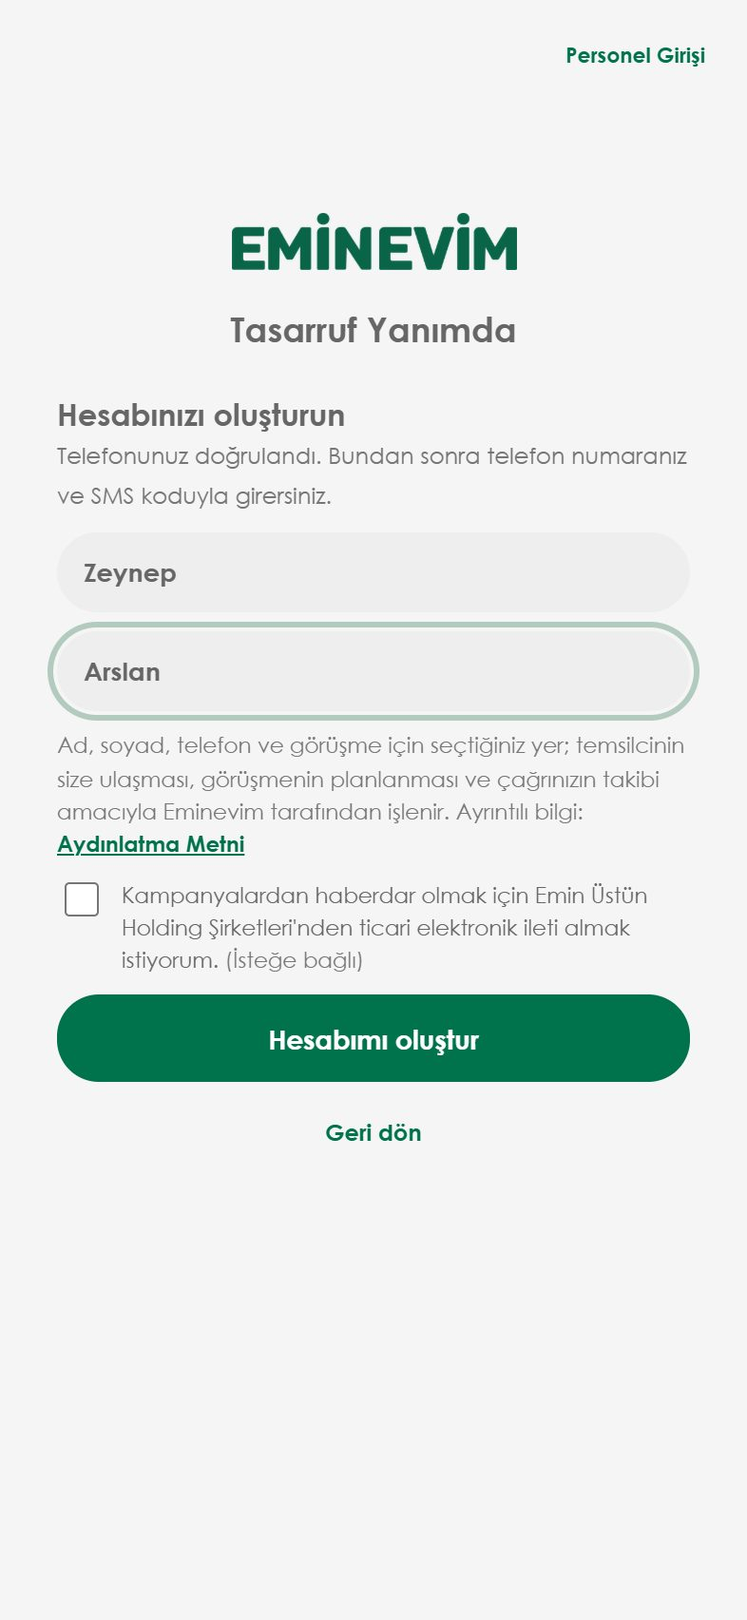
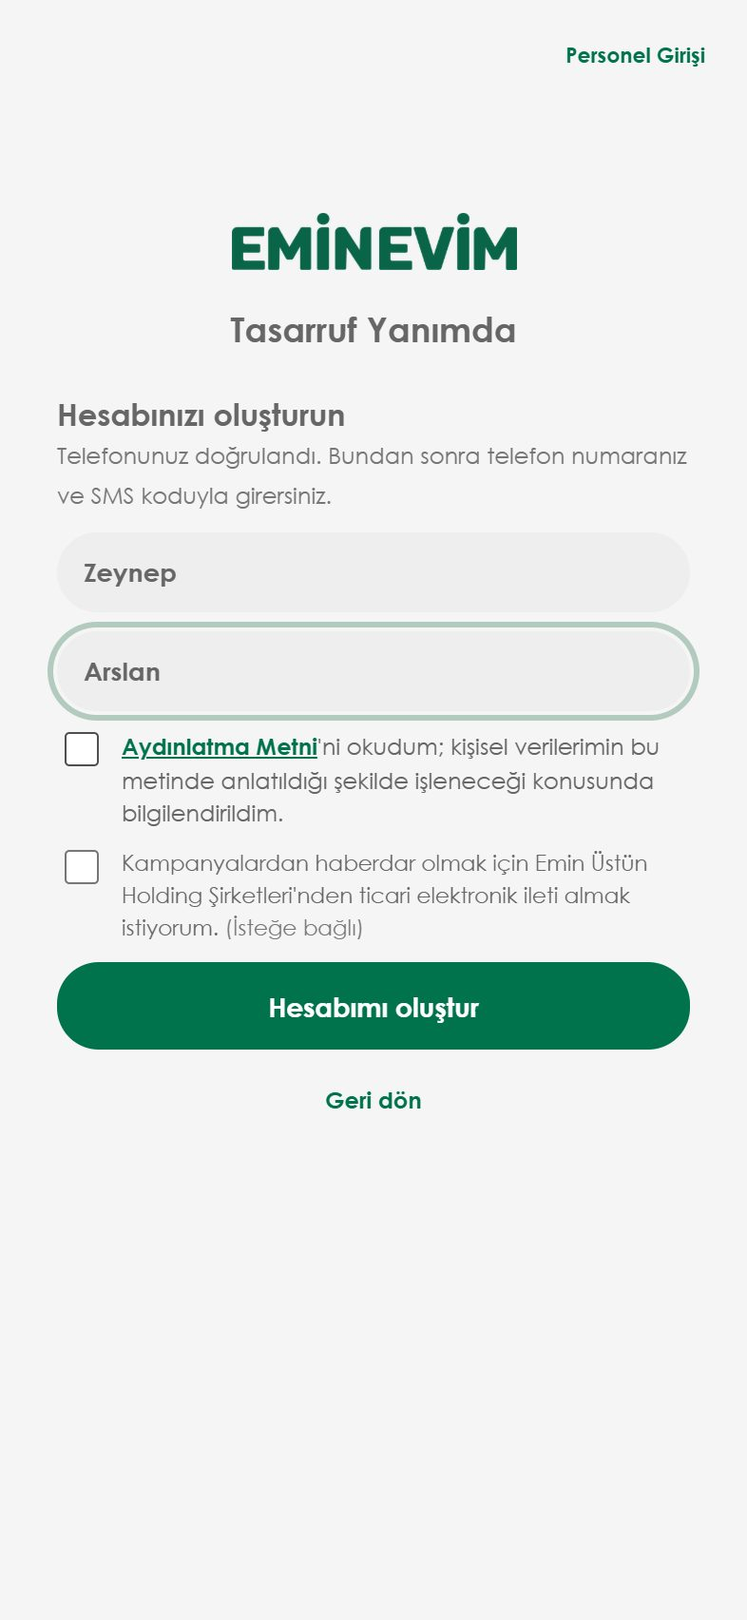
KVKK: zorunlu 'Aydınlatma Metni'ni okudum, bilgilendirildim' onay kutusu (web formu + uygulama + merkez)

Changed region(s): [[0.0611, 0.4354, 0.9466, 0.7154]]

diff --git a/Eminevim Saha Paneli.dc.html b/Eminevim Saha Paneli.dc.html
@@ -592,7 +592,7 @@ html{-webkit-tap-highlight-color:transparent}
           <sc-if value="{{ kodAdim1 }}"><input value="{{ kodTel }}" onChange="{{ setKodTel }}" inputmode="tel" autocomplete="tel" placeholder="Telefon numaranız" aria-label="Telefon numaranız" style="width:100%; padding:13px 14px; border-radius:22px; border:0; font-size:13.5px; font-family:GOTHIC,'Century Gothic','Segoe UI',Arial,sans-serif; background:var(--kutu); color:var(--ink);font-weight:700"></sc-if>
           <sc-if value="{{ kodAdim1 }}"><select class="spy-ara ornek-secim" value="{{ ornekSecili }}" onChange="{{ setOrnekSecili }}" aria-label="Örnek müşteri seçin">{{ ornekSecenekler }}</select></sc-if>
           <sc-if value="{{ kodAdim2 }}"><input value="{{ kodGirdi }}" onChange="{{ setKodGirdi }}" inputmode="numeric" autocomplete="one-time-code" maxlength="6" placeholder="• • • • • •" aria-label="SMS ile gelen 6 haneli kod" style="width:100%; padding:13px 14px; border-radius:22px; border:0; font-size:13.5px; font-family:GOTHIC,'Century Gothic','Segoe UI',Arial,sans-serif; background:var(--kutu); color:var(--ink);font-weight:700;text-align:center;font-size:22px;letter-spacing:10px;"><sc-if value="{{ kodDemoVar }}"><div style="font-size:11.5px;color:var(--dim);background:var(--tintGreen);border-radius:12px;padding:7px 10px;text-align:left;">Test: SMS gönderilmez, kod otomatik dolduruldu (<b style="color:#00724C;letter-spacing:2px;">{{ kodDemo }}</b>).</div></sc-if></sc-if>
-          <sc-if value="{{ kodAdim3 }}"><input value="{{ kodAd }}" onChange="{{ setKodAd }}" autocomplete="given-name" placeholder="Ad" aria-label="Ad" style="width:100%; padding:13px 14px; border-radius:22px; border:0; font-size:13.5px; font-family:GOTHIC,'Century Gothic','Segoe UI',Arial,sans-serif; background:var(--kutu); color:var(--ink);font-weight:700"><input value="{{ kodSoyad }}" onChange="{{ setKodSoyad }}" autocomplete="family-name" placeholder="Soyad" aria-label="Soyad" style="width:100%; padding:13px 14px; border-radius:22px; border:0; font-size:13.5px; font-family:GOTHIC,'Century Gothic','Segoe UI',Arial,sans-serif; background:var(--kutu); color:var(--ink);font-weight:700"><div style="font-size:11.5px;color:var(--dim);line-height:1.5;text-align:left;">Ad, soyad, telefon ve görüşme için seçtiğiniz yer; temsilcinin size ulaşması, görüşmenin planlanması ve çağrınızın takibi amacıyla Eminevim tarafından işlenir. Ayrıntılı bilgi: <button type="button" onClick="{{ aydinlatmaAc }}" style="border:0;background:transparent;padding:0;color:#00724C;font:700 11.5px GOTHIC,'Century Gothic','Segoe UI',Arial,sans-serif;text-decoration:underline;cursor:pointer;">Aydınlatma Metni</button></div><label style="display:flex;align-items:flex-start;gap:9px;text-align:left;cursor:pointer;"><input type="checkbox" checked="{{ kodKampanya }}" onChange="{{ toggleKodKampanya }}" aria-label="Ticari elektronik ileti izni (isteğe bağlı)" style="width:18px;height:18px;accent-color:#00724C;flex-shrink:0;margin-top:1px;"><span style="font-size:11.5px;color:var(--ink);line-height:1.45;">Kampanyalardan haberdar olmak için Emin Üstün Holding Şirketleri'nden ticari elektronik ileti almak istiyorum. <span style="color:var(--dim);">(İsteğe bağlı)</span></span></label></sc-if>
+          <sc-if value="{{ kodAdim3 }}"><input value="{{ kodAd }}" onChange="{{ setKodAd }}" autocomplete="given-name" placeholder="Ad" aria-label="Ad" style="width:100%; padding:13px 14px; border-radius:22px; border:0; font-size:13.5px; font-family:GOTHIC,'Century Gothic','Segoe UI',Arial,sans-serif; background:var(--kutu); color:var(--ink);font-weight:700"><input value="{{ kodSoyad }}" onChange="{{ setKodSoyad }}" autocomplete="family-name" placeholder="Soyad" aria-label="Soyad" style="width:100%; padding:13px 14px; border-radius:22px; border:0; font-size:13.5px; font-family:GOTHIC,'Century Gothic','Segoe UI',Arial,sans-serif; background:var(--kutu); color:var(--ink);font-weight:700"><label style="display:flex;align-items:flex-start;gap:9px;text-align:left;cursor:pointer;"><input type="checkbox" checked="{{ kodAydinlatma }}" onChange="{{ toggleKodAydinlatma }}" aria-label="Aydınlatma Metni'ni okudum, bilgilendirildim" style="width:18px;height:18px;accent-color:#00724C;flex:0 0 auto;margin-top:1px;"><span style="font-size:12px;color:var(--ink);line-height:1.45;"><button type="button" onClick="{{ aydinlatmaAcKutu }}" style="border:0;background:transparent;padding:0;color:#00724C;font:700 12px GOTHIC,'Century Gothic','Segoe UI',Arial,sans-serif;text-decoration:underline;cursor:pointer;">Aydınlatma Metni</button>'ni okudum; kişisel verilerimin bu metinde anlatıldığı şekilde işleneceği konusunda bilgilendirildim.</span></label><label style="display:flex;align-items:flex-start;gap:9px;text-align:left;cursor:pointer;"><input type="checkbox" checked="{{ kodKampanya }}" onChange="{{ toggleKodKampanya }}" aria-label="Ticari elektronik ileti izni (isteğe bağlı)" style="width:18px;height:18px;accent-color:#00724C;flex-shrink:0;margin-top:1px;"><span style="font-size:11.5px;color:var(--ink);line-height:1.45;">Kampanyalardan haberdar olmak için Emin Üstün Holding Şirketleri'nden ticari elektronik ileti almak istiyorum. <span style="color:var(--dim);">(İsteğe bağlı)</span></span></label></sc-if>
           <sc-if value="{{ kodOrnekVar }}"><div style="font-size:11.5px;color:var(--dim);background:var(--tintGreen);border-radius:12px;padding:7px 10px;text-align:left;">Test: ad ve soyad örnek olarak dolduruldu. İsterseniz değiştirin.</div></sc-if>
           <sc-if value="{{ kodHataVar }}"><div role="alert" style="font-size:12px;font-weight:700;color:#B25E30;text-align:left;">{{ kodHata }}</div></sc-if>
           <button onClick="{{ kodIleri }}" style-active="transform:scale(.97);" style="width:100%; min-height:46px; background:#00724C; color:#fff; border:none; border-radius:22px; font-size:14px; font-weight:700; cursor:pointer; font-family:GOTHIC,'Century Gothic','Segoe UI',Arial,sans-serif;">{{ kodDugme }}</button>
@@ -2418,7 +2418,7 @@ class Component extends DCLogic {
       this.setState({ customerNav: "basvurum", mSeciliRandevuId: rid, mKonusmaAcik: false });
     } else this._acilacak = rid;
   }
-  girisTemel() { return { girisMod: "", kodAdim: 1, kodHata: "", kodGirdi: "", kodAd: "", kodSoyad: "", kodKampanya: false, kodOrnek: false, kodWeb: "", kodKayit: null }; }
+  girisTemel() { return { girisMod: "", kodAdim: 1, kodHata: "", kodGirdi: "", kodAd: "", kodSoyad: "", kodKampanya: false, kodAydinlatma: false, kodOrnek: false, kodWeb: "", kodKayit: null }; }
   async kodIleri() {
     // Müşteri girişi (2026-11-18): telefon → SMS kodu → kayıtlıysa içeri; yeni müşteriyse Ad, Soyad + aydınlatma bilgisi
     // (+ isteğe bağlı ticari ileti izni). Parola yok; oturum "Çıkış yap"a kadar telefonda kalır.
@@ -2482,10 +2482,11 @@ class Component extends DCLogic {
     const { adi, soyadi } = s.kodWeb ? this.webAdSoyad(q) : { adi: (s.kodAd || "").trim(), soyadi: (s.kodSoyad || "").trim() };
     if (!s.kodWeb && adi.length < 2) { this.setState({ kodHata: "Adınızı yazın." }); return; }
     if (!s.kodWeb && soyadi.length < 2) { this.setState({ kodHata: "Soyadınızı yazın." }); return; }
+    if (!s.kodWeb && !s.kodAydinlatma) { this.setState({ kodHata: "Devam etmek için Aydınlatma Metni'ni okuduğunuzu onaylayın." }); return; }  // web'den gelen formda onayladı
     const kampanya = s.kodWeb ? q.get("kampanya") === "1" : !!s.kodKampanya;
     let merkezHesap = null;
     if (CANLI) {
-      try { merkezHesap = await musteriMerkez("kayit", { tel, kod: String(s.kodGirdi || "").replace(/\D/g, ""), adi, soyadi, kampanya, aydinlatma: true }); }
+      try { merkezHesap = await musteriMerkez("kayit", { tel, kod: String(s.kodGirdi || "").replace(/\D/g, ""), adi, soyadi, kampanya, aydinlatmaOnay: true }); }
       catch (e) { this.setState({ kodHata: e.message }); return; }
       if (this.state.girisMod !== "kod" || this.state.kodTel !== s.kodTel || this.state.kodWeb !== s.kodWeb) return;
     }
@@ -3738,10 +3739,12 @@ class Component extends DCLogic {
       ornekSecili: ornekMu(telAnahtar(s.kodTel)) ? telAnahtar(s.kodTel) : (s.yeniOrnekTel && telAnahtar(s.kodTel) === s.yeniOrnekTel ? "yeni" : ""),
       setOrnekSecili: (e) => { const v = e.target.value; if (v === "yeni") { const t = rastgeleUye().tel; this.setState({ kodTel: t, yeniOrnekTel: telAnahtar(t), kodHata: "" }); } else if (v) this.setState({ kodTel: telYaz(v), yeniOrnekTel: "", kodHata: "" }); },
       ornekSecenekler: [React.createElement("option", { key: "", value: "" }, "Örnek müşteri seçin")].concat(ORNEK_MUSTERILER.map((m) => React.createElement("option", { key: m.tel, value: m.tel }, m.ad + " · kayıtlı müşteri")), [React.createElement("option", { key: "yeni", value: "yeni" }, "Yeni üye (örnek bilgilerle)")]),
-      kodTel: s.kodTel || "", kodGirdi: s.kodGirdi || "", kodAd: s.kodAd || "", kodSoyad: s.kodSoyad || "", kodKampanya: !!s.kodKampanya, kodOrnekVar: s.girisMod === "kod" && s.kodAdim === 3 && !!s.kodOrnek,
+      kodTel: s.kodTel || "", kodGirdi: s.kodGirdi || "", kodAd: s.kodAd || "", kodSoyad: s.kodSoyad || "", kodKampanya: !!s.kodKampanya, kodAydinlatma: !!s.kodAydinlatma, kodOrnekVar: s.girisMod === "kod" && s.kodAdim === 3 && !!s.kodOrnek,
       setKodTel: (e) => this.setState({ kodTel: e.target.value, kodHata: "" }), setKodGirdi: (e) => this.setState({ kodGirdi: e.target.value.replace(/\D/g, "").slice(0, 6), kodHata: "" }),
       setKodAd: (e) => this.setState({ kodAd: e.target.value, kodHata: "", kodOrnek: false }), setKodSoyad: (e) => this.setState({ kodSoyad: e.target.value, kodHata: "", kodOrnek: false }),
       toggleKodKampanya: () => this.setState((st) => ({ kodKampanya: !st.kodKampanya })),
+      toggleKodAydinlatma: () => this.setState((st) => ({ kodAydinlatma: !st.kodAydinlatma, kodHata: "" })),
+      aydinlatmaAcKutu: (e) => { e.preventDefault(); this.setState({ aydinlatmaAcik: true }); },  // kutunun içindeki bağlantı: işaretlemez, metni açar
       aydinlatmaAcik: !!s.aydinlatmaAcik, aydinlatmaAc: () => this.setState({ aydinlatmaAcik: true }), kampanyaIzniVar: !!s.kampanyaIzni, kampanyaIzniDegistir: () => this.kampanyaIzniDegistir(), aydinlatmaKapat: () => this.setState({ aydinlatmaAcik: false }),
       kodHata: s.kodHata || "", kodHataVar: !!s.kodHata,
       kodDemo: (smsKodOku(s.kodTel) || {}).kod || "", kodDemoVar: s.kodAdim === 2 && !!smsKodOku(s.kodTel),

diff --git a/web-basvuru/index.html b/web-basvuru/index.html
@@ -268,6 +268,8 @@
   .ty-mobil .ty-bolge-disi{font-size:10pt}
   .ty-aydinlatma{margin:0;padding:0 2px;font-size:8pt;line-height:1.4;color:#666;text-align:left}
   .ty-mobil .ty-aydinlatma{font-size:9.5pt}
+  .ty-onay .ty-ayd-link{border:0;background:none;padding:0;color:var(--tkd_yesil);font:inherit;font-weight:700;text-decoration:underline;cursor:pointer}
+  .ty-onay input.ty-eksik + .tk-checkmark{box-shadow:0 0 0 2px var(--tdk_turuncu)}
   .ty-aydinlatma button{border:0;background:none;padding:0;color:var(--tkd_yesil);font:inherit;font-weight:700;text-decoration:underline;cursor:pointer}
   .ty-konum-not{margin:6px 0 0;padding:0 6px;font-size:8pt;line-height:1.4;color:#666}
   .ty-mobil .ty-konum-not{font-size:9.5pt}
@@ -840,14 +842,18 @@
     <div class="col-9 pb-3 px-0"><input type="text" name="telefon" placeholder="Telefon" class="tk-inputGri" inputmode="tel" autocomplete="tel-national" aria-label="Telefon"></div>
 
     <div class="col-12">
+      <label class="tk-checkboxContainer ty-onay">
+        <span class="tk-inputGriLabel"><button type="button" class="ty-ayd-link" data-aydinlatma-ac>Aydınlatma Metni</button>'ni okudum; kişisel verilerimin bu metinde anlatıldığı şekilde işleneceği konusunda bilgilendirildim.</span>
+        <input type="checkbox" name="aydinlatmaOnay" aria-label="Aydınlatma Metni'ni okudum, bilgilendirildim">
+        <span class="tk-checkmark"></span>
+      </label>
+    </div>
+    <div class="col-12 pb-3">
       <label class="tk-checkboxContainer">
         <span class="tk-inputGriLabel">Kampanyalardan haberdar olmak için Emin Üstün Holding Şirketleri'nden ticari elektronik ileti almak istiyorum. (İsteğe bağlı)</span>
         <input type="checkbox" name="kampanya">
         <span class="tk-checkmark"></span>
       </label>
-    </div>
-    <div class="col-12 pb-3">
-      <p class="ty-aydinlatma">Kişisel verileriniz, başvurunuzun değerlendirilmesi ve sizinle iletişim kurulması amacıyla Eminevim tarafından işlenir. Ayrıntılı bilgi: <button type="button" data-aydinlatma-ac>Aydınlatma Metni</button></p>
     </div>
 
     <div class="col-12 pb-2 px-0" data-plan-satir hidden>
@@ -905,14 +911,18 @@
     <div class="col-9 pb-3 px-0"><input type="text" name="telefon" placeholder="Telefon" class="tk-inputMobilGri" inputmode="tel" autocomplete="tel-national" aria-label="Telefon"></div>
 
     <div class="col-12">
+      <label class="tk-checkboxContainer ty-onay">
+        <span class="tk-inputGriLabelMobil"><button type="button" class="ty-ayd-link" data-aydinlatma-ac>Aydınlatma Metni</button>'ni okudum; kişisel verilerimin bu metinde anlatıldığı şekilde işleneceği konusunda bilgilendirildim.</span>
+        <input type="checkbox" name="aydinlatmaOnay" aria-label="Aydınlatma Metni'ni okudum, bilgilendirildim">
+        <span class="tk-checkmark"></span>
+      </label>
+    </div>
+    <div class="col-12 pb-3">
       <label class="tk-checkboxContainer">
         <span class="tk-inputGriLabelMobil">Kampanyalardan haberdar olmak için Emin Üstün Holding Şirketleri'nden ticari elektronik ileti almak istiyorum. (İsteğe bağlı)</span>
         <input type="checkbox" name="kampanya">
         <span class="tk-checkmark"></span>
       </label>
-    </div>
-    <div class="col-12 pb-3">
-      <p class="ty-aydinlatma">Kişisel verileriniz, başvurunuzun değerlendirilmesi ve sizinle iletişim kurulması amacıyla Eminevim tarafından işlenir. Ayrıntılı bilgi: <button type="button" data-aydinlatma-ac>Aydınlatma Metni</button></p>
     </div>
 
     <div class="col-12 pb-2 px-0" data-plan-satir hidden>
@@ -2501,7 +2511,7 @@ _utmx</strong></strong></p>
       if(anahtar.checked){ bolgeDisi=false; disNot.hidden=true; pencereAc(); }
       else { talep=null; konum=null; formGoster(); }
     });
-    form.querySelector('[data-aydinlatma-ac]').addEventListener('click', function(e){ aydinlatmaAc(e.currentTarget); });
+    form.querySelector('[data-aydinlatma-ac]').addEventListener('click', function(e){ e.preventDefault(); aydinlatmaAc(e.currentTarget); });  // kutuyu işaretlemez, metni açar
     ozetBtn.addEventListener('click', pencereAc);
 
     /* --- Pencere: 1 harita → 2 gün ve saat --- */
@@ -2732,6 +2742,7 @@ _utmx</strong></strong></p>
       if(!v.ad) eksik.push([f.ad,'Adınızı yazın.']);
       if(!v.soyad) eksik.push([f.soyad,'Soyadınızı yazın.']);
       if(v.tel.length!==10) eksik.push([f.telefon,'Telefonu 10 hane yazın.']);
+      if(!f.aydinlatmaOnay.checked) eksik.push([f.aydinlatmaOnay,"Devam etmek için Aydınlatma Metni'ni okuduğunuzu onaylayın."]);
       if(eksik.length){
         eksik.forEach(function(x){ isaretle(x[0], x[1]); });
         var ilk=eksik[0][0], odak=ilk.matches('input') ? ilk : ilk.querySelector('input');
@@ -2778,7 +2789,7 @@ _utmx</strong></strong></p>
       sonuc.innerHTML = h; form.hidden = true; sonuc.hidden = false;
       if(secim && canli){
         var d=talep.gun, iki=function(n){return (n<10?'0':'')+n;};
-        window.Canli.gonder('api/cagri', { kaynak:'web', aydinlatma:true, kampanya:f.kampanya.checked, musteri:{ ad:v.ad+' '+v.soyad, adi:v.ad, soyadi:v.soyad, tel:t10 },
+        window.Canli.gonder('api/cagri', { kaynak:'web', aydinlatmaOnay:f.aydinlatmaOnay.checked, kampanya:f.kampanya.checked, musteri:{ ad:v.ad+' '+v.soyad, adi:v.ad, soyadi:v.soyad, tel:t10 },
           kayit:{ id:requestId, tip:'ziyaret', durum:'alindi', kaynak:'web', tarih:d.getFullYear()+'-'+iki(d.getMonth()+1)+'-'+iki(d.getDate()), gunYazi:v.gun, saat:v.saat, yer:v.adres,
             konum:{ lat:talep.lat, lng:talep.lng, adres:talep.adres, bolge:talep.bolge } } })
           .then(function(c){ var k=(c.sonuc||{}).girisKodu||''; var el=sonuc.querySelector('[data-sms-kod]'); if(el) el.textContent=k;

diff --git a/web-basvuru/form_bolumu.html b/web-basvuru/form_bolumu.html
@@ -136,6 +136,8 @@
   .ty-mobil .ty-bolge-disi{font-size:10pt}
   .ty-aydinlatma{margin:0;padding:0 2px;font-size:8pt;line-height:1.4;color:#666;text-align:left}
   .ty-mobil .ty-aydinlatma{font-size:9.5pt}
+  .ty-onay .ty-ayd-link{border:0;background:none;padding:0;color:var(--tkd_yesil);font:inherit;font-weight:700;text-decoration:underline;cursor:pointer}
+  .ty-onay input.ty-eksik + .tk-checkmark{box-shadow:0 0 0 2px var(--tdk_turuncu)}
   .ty-aydinlatma button{border:0;background:none;padding:0;color:var(--tkd_yesil);font:inherit;font-weight:700;text-decoration:underline;cursor:pointer}
   .ty-konum-not{margin:6px 0 0;padding:0 6px;font-size:8pt;line-height:1.4;color:#666}
   .ty-mobil .ty-konum-not{font-size:9.5pt}
@@ -317,14 +319,18 @@
     <div class="col-9 pb-3 px-0"><input type="text" name="telefon" placeholder="Telefon" class="tk-inputGri" inputmode="tel" autocomplete="tel-national" aria-label="Telefon"></div>
 
     <div class="col-12">
+      <label class="tk-checkboxContainer ty-onay">
+        <span class="tk-inputGriLabel"><button type="button" class="ty-ayd-link" data-aydinlatma-ac>Aydınlatma Metni</button>'ni okudum; kişisel verilerimin bu metinde anlatıldığı şekilde işleneceği konusunda bilgilendirildim.</span>
+        <input type="checkbox" name="aydinlatmaOnay" aria-label="Aydınlatma Metni'ni okudum, bilgilendirildim">
+        <span class="tk-checkmark"></span>
+      </label>
+    </div>
+    <div class="col-12 pb-3">
       <label class="tk-checkboxContainer">
         <span class="tk-inputGriLabel">Kampanyalardan haberdar olmak için Emin Üstün Holding Şirketleri'nden ticari elektronik ileti almak istiyorum. (İsteğe bağlı)</span>
         <input type="checkbox" name="kampanya">
         <span class="tk-checkmark"></span>
       </label>
-    </div>
-    <div class="col-12 pb-3">
-      <p class="ty-aydinlatma">Kişisel verileriniz, başvurunuzun değerlendirilmesi ve sizinle iletişim kurulması amacıyla Eminevim tarafından işlenir. Ayrıntılı bilgi: <button type="button" data-aydinlatma-ac>Aydınlatma Metni</button></p>
     </div>
 
     <div class="col-12 pb-2 px-0" data-plan-satir hidden>
@@ -524,7 +530,7 @@
       if(anahtar.checked){ bolgeDisi=false; disNot.hidden=true; pencereAc(); }
       else { talep=null; konum=null; formGoster(); }
     });
-    form.querySelector('[data-aydinlatma-ac]').addEventListener('click', function(e){ aydinlatmaAc(e.currentTarget); });
+    form.querySelector('[data-aydinlatma-ac]').addEventListener('click', function(e){ e.preventDefault(); aydinlatmaAc(e.currentTarget); });  // kutuyu işaretlemez, metni açar
     ozetBtn.addEventListener('click', pencereAc);
 
     /* --- Pencere: 1 harita → 2 gün ve saat --- */
@@ -755,6 +761,7 @@
       if(!v.ad) eksik.push([f.ad,'Adınızı yazın.']);
       if(!v.soyad) eksik.push([f.soyad,'Soyadınızı yazın.']);
       if(v.tel.length!==10) eksik.push([f.telefon,'Telefonu 10 hane yazın.']);
+      if(!f.aydinlatmaOnay.checked) eksik.push([f.aydinlatmaOnay,"Devam etmek için Aydınlatma Metni'ni okuduğunuzu onaylayın."]);
       if(eksik.length){
         eksik.forEach(function(x){ isaretle(x[0], x[1]); });
         var ilk=eksik[0][0], odak=ilk.matches('input') ? ilk : ilk.querySelector('input');
@@ -801,7 +808,7 @@
       sonuc.innerHTML = h; form.hidden = true; sonuc.hidden = false;
       if(secim && canli){
         var d=talep.gun, iki=function(n){return (n<10?'0':'')+n;};
-        window.Canli.gonder('api/cagri', { kaynak:'web', aydinlatma:true, kampanya:f.kampanya.checked, musteri:{ ad:v.ad+' '+v.soyad, adi:v.ad, soyadi:v.soyad, tel:t10 },
+        window.Canli.gonder('api/cagri', { kaynak:'web', aydinlatmaOnay:f.aydinlatmaOnay.checked, kampanya:f.kampanya.checked, musteri:{ ad:v.ad+' '+v.soyad, adi:v.ad, soyadi:v.soyad, tel:t10 },
           kayit:{ id:requestId, tip:'ziyaret', durum:'alindi', kaynak:'web', tarih:d.getFullYear()+'-'+iki(d.getMonth()+1)+'-'+iki(d.getDate()), gunYazi:v.gun, saat:v.saat, yer:v.adres,
             konum:{ lat:talep.lat, lng:talep.lng, adres:talep.adres, bolge:talep.bolge } } })
           .then(function(c){ var k=(c.sonuc||{}).girisKodu||''; var el=sonuc.querySelector('[data-sms-kod]'); if(el) el.textContent=k;

diff --git a/senaryo/adimlar.js b/senaryo/adimlar.js
@@ -1,5 +1,5 @@
 // araclar/senaryo_goruntu.py üretir; elle düzenlenmez
-window.SENARYO_SURUM = "202611181528";
+window.SENARYO_SURUM = "202611181558";
 window.SENARYO = {
  "web": [
   {
@@ -13,8 +13,8 @@ window.SENARYO = {
   },
   {
    "kim": "m",
-   "baslik": "KVKK: Aydınlatma Metni",
-   "metin": "Formun altında kısa bilgi ve \"Aydınlatma Metni\" bağlantısı var; onay kutusu yok. Kampanya iletisi izni isteğe bağlıdır, işaretsiz gelir.",
+   "baslik": "KVKK: Aydınlatma Metni ve onay",
+   "metin": "Müşteri \"Aydınlatma Metni\"ni açıp okur, \"okudum, bilgilendirildim\" kutusunu işaretler; işaretlemeden form gönderilmez. Kampanya iletisi izni ayrı, isteğe bağlı, işaretsiz gelir.",
    "m": "s1-03-m.jpg",
    "p": "s1-01-p.jpg",
    "ust": "#0d2b29",
@@ -177,8 +177,8 @@ window.SENARYO = {
   },
   {
    "kim": "m",
-   "baslik": "KVKK: Aydınlatma Metni",
-   "metin": "\"Aydınlatma Metni\"ne dokununca metnin tamamı açılır. Kampanya iletisi izni isteğe bağlıdır, işaretsiz gelir.",
+   "baslik": "KVKK: Aydınlatma Metni ve onay",
+   "metin": "\"Aydınlatma Metni\"ne dokununca metnin tamamı açılır; müşteri \"okudum, bilgilendirildim\" kutusunu işaretlemeden hesap açılmaz. Kampanya iletisi izni ayrı, isteğe bağlı, işaretsiz gelir.",
    "m": "s2-05-m.jpg",
    "p": "s2-01-p.jpg",
    "ust": "#858a90",

diff --git a/panel.html b/panel.html
@@ -216,7 +216,7 @@
   </main>
 </div>
 
-<script src="senaryo/adimlar.js?v=202611181528"></script>
+<script src="senaryo/adimlar.js?v=202611181558"></script>
 <script>
 (function(){
   var bolumler = ["cerceve","video","senaryo-1","senaryo-2"];

diff --git a/araclar/senaryo_goruntu.py b/araclar/senaryo_goruntu.py
@@ -137,15 +137,16 @@ def senaryo_web(browser, hatalar):
     s.goruntu(web, "m", TELEFON)
     s.adim("m", "Müşteri web formunu doldurur", "Eminevim sitesindeki başvuru formu: ad, soyad, telefon. E-posta istenmez.")
 
-    # KVKK: aydınlatma yalnız gösterilir (onay kutusu yok); ticari ileti izni isteğe bağlı, işaretsiz gelir
+    # KVKK: zorunlu "Aydınlatma Metni'ni okudum" kutusu (açık rıza değil); ticari ileti izni ayrı, isteğe bağlı, işaretsiz gelir
     assert not form.locator("[name=kampanya]").is_checked()
-    form.get_by_role("button", name="Aydınlatma Metni", exact=True).click()
+    form.locator("[data-aydinlatma-ac]").click()
     ayd = web.locator("#ty-aydinlatma.acik")
     ayd.get_by_role("button", name="Kapat", exact=True).wait_for()
     s.goruntu(web, "m", TELEFON)
-    s.adim("m", "KVKK: Aydınlatma Metni", "Formun altında kısa bilgi ve \"Aydınlatma Metni\" bağlantısı var; onay kutusu yok. "
-           "Kampanya iletisi izni isteğe bağlıdır, işaretsiz gelir.")
+    s.adim("m", "KVKK: Aydınlatma Metni ve onay", "Müşteri \"Aydınlatma Metni\"ni açıp okur, \"okudum, bilgilendirildim\" kutusunu işaretler; "
+           "işaretlemeden form gönderilmez. Kampanya iletisi izni ayrı, isteğe bağlı, işaretsiz gelir.")
     ayd.get_by_role("button", name="Kapat", exact=True).click()
+    form.locator("[name=aydinlatmaOnay]").evaluate("e=>e.click()")
 
     form.locator("[name=temsilci]").check()
     pen = web.locator("[data-pen=temsilci].acik")
@@ -258,8 +259,10 @@ def senaryo_uygulama(browser, hatalar):
     pen = page.get_by_role("dialog", name="Aydınlatma Metni", exact=True)
     pen.wait_for()
     s.goruntu(page, "m", TELEFON)
-    s.adim("m", "KVKK: Aydınlatma Metni", "\"Aydınlatma Metni\"ne dokununca metnin tamamı açılır. Kampanya iletisi izni isteğe bağlıdır, işaretsiz gelir.")
+    s.adim("m", "KVKK: Aydınlatma Metni ve onay", "\"Aydınlatma Metni\"ne dokununca metnin tamamı açılır; müşteri \"okudum, bilgilendirildim\" "
+           "kutusunu işaretlemeden hesap açılmaz. Kampanya iletisi izni ayrı, isteğe bağlı, işaretsiz gelir.")
     pen.get_by_role("button", name="Kapat", exact=True).click()
+    page.get_by_role("checkbox", name="Aydınlatma Metni'ni okudum, bilgilendirildim", exact=True).check()
 
     page.get_by_role("button", name="Hesabımı oluştur", exact=True).click()
     page.get_by_role("button", name="Atla", exact=True).wait_for()

diff --git a/tests/web-flows.py b/tests/web-flows.py
@@ -21,10 +21,10 @@ with sync_playwright() as p:
         else:
             scope=page.locator('.tk-desktopForm')
         form=scope.locator('[data-ty-form]')
-        # KVKK (2026-11-18): aydınlatma yalnız gösterilir (kabul kutusu yok), konum için ayrı rıza kutusu yok; ticari ileti isteğe bağlı
+        # KVKK (2026-11-18): zorunlu "Aydınlatma Metni'ni okudum" kutusu (açık rıza değil); konum için ayrı rıza kutusu yok; ticari ileti isteğe bağlı
         assert form.locator('[name=kanun]').count()==0 and form.locator('[name=konumRiza]').count()==0
         assert not form.locator('[name=kampanya]').is_checked()
-        form.get_by_role('button',name='Aydınlatma Metni',exact=True).click()
+        form.locator('[data-aydinlatma-ac]').click()
         ayd=page.locator('#ty-aydinlatma.acik')
         ayd.get_by_text('hukuk onayı',exact=False).wait_for()
         # Aydınlatma Yükümlülüğü Tebliği m.5 başlıkları + başvuru yolu; uygulamayla aynı metin (uygulama/aydinlatma.js)
@@ -35,6 +35,13 @@ with sync_playwright() as p:
         assert page.locator('#ty-aydinlatma.acik').count()==0
         assert not form.locator('[data-konum-riza]').is_visible()
         form.locator('[name=kampanya]').evaluate('e=>e.click()'); assert form.locator('[name=kampanya]').is_checked()
+        onay=form.locator('[name=aydinlatmaOnay]')
+        assert not onay.is_checked()
+        form.locator('[type=submit]').click()
+        form.get_by_text('Devam etmek için Aydınlatma Metni',exact=False).wait_for()
+        assert scope.locator('[data-sonuc]').is_hidden()
+        onay.evaluate('e=>e.click()'); assert onay.is_checked()
+        assert form.get_by_text('Devam etmek için Aydınlatma Metni',exact=False).count()==0
         form.locator('[name=temsilci]').check()
         dialog=page.locator('[data-pen=temsilci].acik')
         dialog.wait_for()
@@ -97,6 +104,7 @@ with sync_playwright() as p:
         page.locator('[data-pen=temsilci].acik [data-kapat]').first.click()
         assert not form.locator('[name=temsilci]').is_checked()
         assert not form.locator('[data-konum-riza]').is_visible()
+        form.locator('[name=aydinlatmaOnay]').evaluate('e=>e.click()')
         form.locator('[type=submit]').click()
         result.get_by_text('Sayın Mehmet Demir, çağrınız alındı!',exact=True).wait_for()
         assert result.locator('[data-sms-pencere]').count()==0

diff --git a/tests/merkez-akis.py b/tests/merkez-akis.py
@@ -118,6 +118,7 @@ with sync_playwright() as p:
     musteri.get_by_label('Ad',exact=True).fill('Deniz')
     musteri.get_by_label('Soyad',exact=True).fill('Test')
     musteri.get_by_role('checkbox',name='Ticari elektronik ileti izni (isteğe bağlı)',exact=True).check()
+    musteri.get_by_role('checkbox',name="Aydınlatma Metni'ni okudum, bilgilendirildim",exact=True).check()
     musteri.get_by_role('button',name='Hesabımı oluştur',exact=True).click()
     bekle(musteri, 'app.state.girisYapildi')
     assert app(musteri, 'app.state.customerForm.name') == 'Deniz Test'
@@ -289,12 +290,13 @@ with sync_playwright() as p:
     web.goto(KOK + 'web-basvuru/index.html', wait_until='domcontentloaded')
     web.wait_for_function("document.querySelector('[data-ty-form] input[name=ad]').value.length>0")
     form = web.locator('.tk-desktopForm [data-ty-form]')
-    # Merkez, aydınlatma metni gösterilmemiş web çağrısını kabul etmez (form her gönderimde aydinlatma:true yollar).
+    # Merkez, "Aydınlatma Metni'ni okudum" kutusu işaretlenmemiş web çağrısını kabul etmez (form aydinlatmaOnay yollar).
     try:
         merkez('api/cagri', {'kaynak':'web', 'kayit':{'id':'onaysiz-web','kaynak':'web','konum':{'lat':41.02,'lng':29.02}}})
         raise AssertionError('Aydınlatmasız web çağrısı kabul edildi')
     except urllib.error.HTTPError as err:
         assert err.code == 400 and 'Aydınlatma' in json.loads(err.read())['hata']
+    form.locator('[name=aydinlatmaOnay]').evaluate('e=>e.click()')
     form.locator('[name=temsilci]').check()
     pencere = web.locator('[data-pen=temsilci].acik')
     pencere.wait_for()

diff --git a/merkez/ty/islemler.py b/merkez/ty/islemler.py
@@ -40,8 +40,8 @@ def temiz_kayit(gelen):
 def cagri(veri, istek):
     k = temiz_kayit(istek.get("kayit"))
     web = istek.get("kaynak") == "web" or k.get("kaynak") == "web"
-    if web and istek.get("aydinlatma") is not True and istek.get("konumRiza") is not True:
-        raise ValueError("Aydınlatma metni gösterilemedi. Sayfayı yenileyip yeniden deneyin.")
+    if web and istek.get("aydinlatmaOnay") is not True:
+        raise ValueError("Aydınlatma Metni onaylanmadı. Formdaki kutuyu işaretleyip yeniden deneyin.")
     for alan in ("konumRizaTarih", "aydinlatmaTarih", "kampanya"):
         k.pop(alan, None)
     konum = k.get("konum") or {}
@@ -53,7 +53,7 @@ def cagri(veri, istek):
     k.update({"mesajlar": [], "olusma": simdi(), "repId": None, "teklif": {"denenen": []}})
     if web:
         k["kaynak"] = "web"
-        k["aydinlatmaTarih"] = k["olusma"]  # aydınlatma metni formda gösterildi (onay kutusu yok)
+        k["aydinlatmaTarih"] = k["olusma"]  # müşteri formda "Aydınlatma Metni'ni okudum" kutusunu işaretledi (açık rıza değil)
         k["kampanya"] = istek.get("kampanya") is True  # isteğe bağlı ticari elektronik ileti izni
         k["girisKodu"] = f"{secrets.randbelow(900000) + 100000}"  # SMS yerine ekranda gösterilir (test)
     veri["kayitlar"][k["id"]] = k

diff --git a/merkez/ty/musteri.py b/merkez/ty/musteri.py
@@ -109,7 +109,7 @@ def musteri_islem(veri, istek):
             return {"kayitli": False}
         m["sonGiris"] = simdi()
         return {"kayitli": True, **oturum(veri, tel)}
-    if islem == "kayit":  # yeni müşteri: SMS kodu + Ad + Soyad (aydınlatma gösterildi) + isteğe bağlı ticari ileti izni
+    if islem == "kayit":  # yeni müşteri: SMS kodu + Ad + Soyad + "Aydınlatma Metni'ni okudum" onayı + isteğe bağlı ticari ileti izni
         if m:
             raise ValueError("Bu numara kayıtlı. Kodla giriş yapın.")
         adi, soyadi = metin(istek.get("adi"), 40), metin(istek.get("soyadi"), 40)
@@ -117,8 +117,8 @@ def musteri_islem(veri, istek):
             raise ValueError("Adınızı yazın.")
         if len(soyadi) < 2:
             raise ValueError("Soyadınızı yazın.")
-        if istek.get("aydinlatma") is not True:
-            raise ValueError("Aydınlatma metni gösterilemedi. Yeniden deneyin.")
+        if istek.get("aydinlatmaOnay") is not True:
+            raise ValueError("Devam etmek için Aydınlatma Metni'ni okuduğunuzu onaylayın.")
         kod_dogru(tel, istek.get("kod"), harca=True)
         hesap_ac(veri, tel, adi, soyadi, istek.get("kampanya") is True)
         return oturum(veri, tel)

diff --git a/tests/browser-flows.py b/tests/browser-flows.py
@@ -103,6 +103,13 @@ with sync_playwright() as p:
     yeni.get_by_role('dialog',name='Aydınlatma Metni',exact=True).get_by_text('hukuk onayı',exact=False).wait_for()
     assert yeni.get_by_text('üçüncü kişilerle paylaşılmaz',exact=False).count()==0
     yeni.get_by_role('dialog',name='Aydınlatma Metni',exact=True).get_by_role('button',name='Kapat',exact=True).click()
+    # KVKK onayı (2026-11-18): "okudum, bilgilendirildim" kutusu zorunlu; metin bağlantısı kutuyu işaretlemez
+    onay=yeni.get_by_role('checkbox',name="Aydınlatma Metni'ni okudum, bilgilendirildim",exact=True)
+    assert not onay.is_checked()
+    buton('Hesabımı oluştur').click()
+    yeni.get_by_role('alert').get_by_text('Devam etmek için Aydınlatma Metni',exact=False).wait_for()
+    assert not app(yeni,'app.state.girisYapildi')
+    onay.check()
     soyad.fill(''); buton('Hesabımı oluştur').click()
     yeni.get_by_role('alert').get_by_text('Soyadınızı yazın.',exact=True).wait_for()
     assert not app(yeni,'app.state.girisYapildi')

diff --git a/URUN_KURALLARI.md b/URUN_KURALLARI.md
@@ -25,8 +25,9 @@ Kurallar ve açık işler `CLAUDE.md`'de, teknik ayrıntı `TEKNIK.md`'de, gerek
 - Web kaynak formu değişince `python web-basvuru/olustur.py`; native paket için `npm run web:sync`. Yeni `appointment.js`, konum seçimi, rota ve QR kitaplığı native/PWA paketlerine dahil edilmiştir.
 - **Tek müşteri girişi (2026-11-18, parola yok):** “Telefon numaranızla devam edin” → SMS kodu. Kayıtlı numara → kod doğrulanınca içeri.
   Yeni numara → **Ad** ve **Soyad** (ayrı kutular) → “Hesabımı oluştur” → Hoş geldiniz. E-posta ve TC kimlik sorulmaz.
-  **KVKK:** aydınlatma metni veri alınan yerde gösterilir (bilgi cümlesi + “Aydınlatma Metni” penceresi), **onay kutusu yok** (hizmet için
-  gerekli veri, KVKK m.5/2-c). Açık rıza yalnız isteğe bağlı iş için, ayrı ve işaretsiz kutu: ticari elektronik ileti izni. Metinler örnektir,
+  **KVKK:** aydınlatma metni veri alınan yerde gösterilir (“Aydınlatma Metni” penceresi) ve
+  zorunlu **“Aydınlatma Metni'ni okudum, bilgilendirildim” kutusu** (kullanıcı kararı 2026-11-18: müşteri tıklayarak onay versin; açık rıza DEĞİL, aydınlatmanın kanıtı); işaretlenmeden hesap açılmaz / form gönderilmez, merkez de kabul etmez (`aydinlatmaOnay`). Kutuda "açık rıza veriyorum" yazılmaz
+  (hizmet için gerekli veri KVKK m.5/2-c ile işlenir; zorunlu rıza kutusu rızayı hizmete bağlamak sayılır). Açık rıza yalnız isteğe bağlı iş için, ayrı ve işaretsiz kutu: ticari elektronik ileti izni. Metinler örnektir,
   yayından önce Eminevim uyum/hukuk onayı gerekir.
   **Aydınlatma Metni tek kaynak (2026-11-18): `uygulama/aydinlatma.js`** (uygulama ve web formu aynı metni gösterir; web formuna `olustur.py` gömer).
   Tebliğ m.5 başlıkları: veri sorumlusu (unvan, adres, Mersis, KEP), veri kategorileri, amaç ↔ hukuki sebep eşleşmesi, toplama yöntemi,
@@ -67,8 +68,8 @@ her adım bitince burada "Durum" güncellenir.
      2/2 gün ve saat → "Onayla". Pencere onaysız kapanırsa düğme kapanır. Formda tek satır özet + "Değiştir".
    - Harita sade ama **mekânlar görünür** olmalı. Uzaktan bakınca yalnız harita + **hizmet bölgeleri yeşil** alan
      (kompakt görünüm). Hizmet bölgeleri şimdilik: **İstanbul Ümraniye, Ataşehir, Üsküdar**.
-   - **KVKK (2026-11-18):** formda kabul kutusu yok; “Kişisel verileriniz … işlenir. Ayrıntılı bilgi: Aydınlatma Metni” bilgi satırı
-     (pencere açar). Konum için ayrı rıza kutusu yok: düğme açılınca harita doğrudan açılır, seçimden sonra formda “Seçeceğiniz yer, yalnız
+   - **KVKK (2026-11-18):** formda zorunlu “Aydınlatma Metni'ni okudum, bilgilendirildim” kutusu (bağlantı metni açar, kutuyu işaretlemez);
+     işaretlenmezse “Devam etmek için Aydınlatma Metni'ni okuduğunuzu onaylayın.” uyarısı. Konum için ayrı rıza kutusu yok: düğme açılınca harita doğrudan açılır, seçimden sonra formda “Seçeceğiniz yer, yalnız
      temsilcinin size ulaşması ve görüşmenin planlanması için kullanılır.” notu görünür. Ticari elektronik ileti izni isteğe bağlı, işaretsiz.
      Merkez web çağrısında aydınlatmanın gösterildiğini (`aydinlatma:true`) ve izni kaydeder; "üçüncü kişilerle paylaşılmaz" gibi yanlış
      söz yazılmaz (harita/SMS/bildirim hizmet sağlayıcıları kullanılır).
